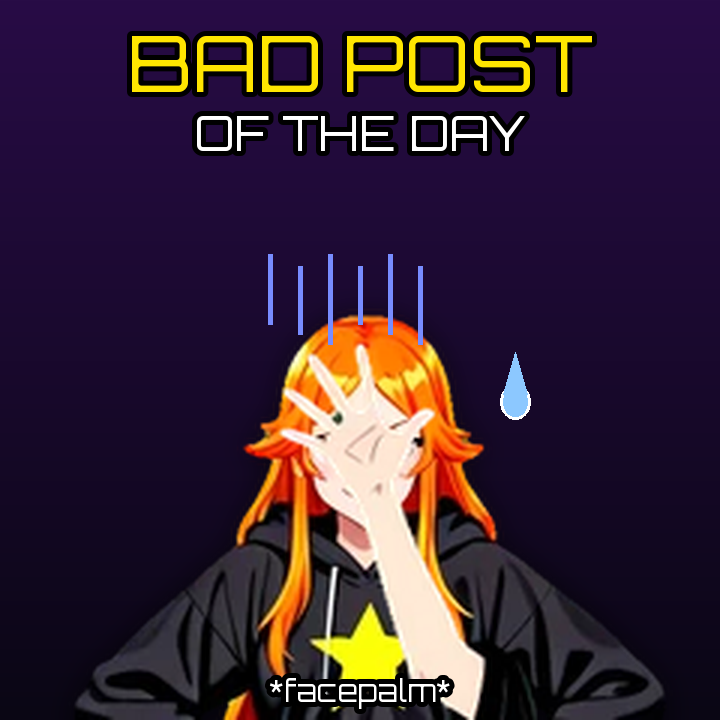
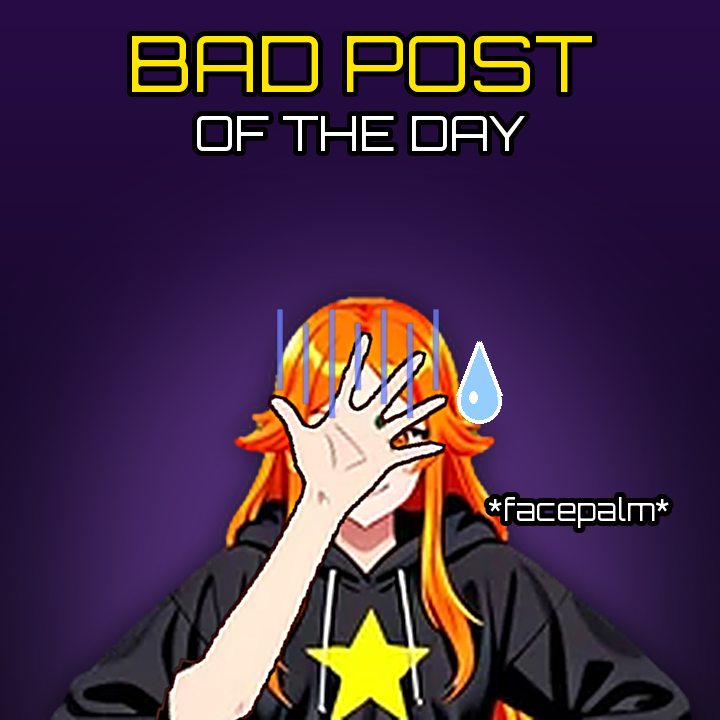
Bad Post of the Day: a facepalm with a whole arm, cut at full resolution
The old composite pasted a waving palm over her eyes with its forearm cut off mid-hoodie and a jagged
pale halo from a 3x magnified cut-out. Now the mirrored arm (back of her right hand) runs off the bottom
of the frame, the cut-out and ink outline are made at final scale, gloom lines and sweat drop sit on her
head, and the caption is off the star.

diff --git a/scripts/make_badpost_facepalm.py b/scripts/make_badpost_facepalm.py
@@ -11,7 +11,7 @@ Run once after changing the mascot art (needs Pillow with FreeType, i.e. the app
 """
 import os
 
-from PIL import Image, ImageDraw, ImageFilter, ImageFont
+from PIL import Image, ImageDraw, ImageFilter, ImageFont, ImageOps
 
 ROOT = os.path.dirname(os.path.dirname(os.path.abspath(__file__)))
 MASCOT = os.path.join(ROOT, "static", "mascot")
@@ -20,15 +20,55 @@ SIZE = 720
 YELLOW = (255, 230, 0, 255)          # the star on her hoodie
 
 
+BUST = (105, 52, 315, 207)            # dance-5: hair top to mid-hoodie (the hip hands are out of frame)
+SCALE = 720 * 0.95 / (BUST[2] - BUST[0])
+PALM_AT = (212, 117)                   # dance-5 coordinates: both eyes behind the hand
+ARM_TILT = -14                         # degrees; the elbow goes out to her right, off the bottom edge
+HAND = 1.08                            # the hand a little larger than the waving one, so it covers both eyes
+INK = (70, 32, 28, 255)                # the line-art brown of her outlines
+
+
+def _up(im: Image.Image, k: float) -> Image.Image:
+    return im.resize((round(im.width * k), round(im.height * k)), Image.LANCZOS)
+
+
+def _arm() -> Image.Image:
+    """dance-2's waving arm, cut out along the skin (no hair, no hoodie), MIRRORED -- a palm-out right
+    hand mirrored is the BACK of her right hand, which is what a facepalm shows the viewer."""
+    src = Image.open(os.path.join(MASCOT, "dance", "dance-2.webp")).convert("RGBA")
+    cut = Image.new("L", src.size, 0)
+    ImageDraw.Draw(cut).polygon([(86, 0), (150, 0), (150, 40), (140, 70), (146, 100), (150, 125),
+                                 (122, 128), (106, 104), (98, 62), (86, 40)], fill=255)
+    arm = Image.new("RGBA", src.size, (0, 0, 0, 0))
+    arm.paste(src, (0, 0), Image.composite(src.split()[3], cut, cut))
+    return ImageOps.mirror(arm.crop((80, 0, 165, 150)))
+
+
 def figure() -> Image.Image:
-    body = Image.open(os.path.join(MASCOT, "dance", "dance-5.webp")).convert("RGBA")
-    arm = Image.open(os.path.join(MASCOT, "dance", "dance-2.webp")).convert("RGBA").crop((80, 0, 165, 140))
-    big = Image.new("RGBA", (400, 400), (0, 0, 0, 0))
-    big.alpha_composite(arm, (200 - 35, 200 - 38))                 # palm centre at (35, 38) of the crop
-    big = big.rotate(6, resample=Image.BICUBIC, center=(200, 200))
-    body.alpha_composite(big, (209 - 200, 121 - 200))               # palm over her eyes
-    bust = body.crop((100, 50, 320, 212))
-    return bust.resize((bust.width * 3, bust.height * 3), Image.LANCZOS)
+    """Composed at the FINAL scale: the art is upscaled first and the arm's edge and outline are cut
+    afterwards, so they are smooth lines rather than a 3x-magnified pixel staircase (the old image's
+    pale, jagged halo). The forearm runs off the bottom of the frame, so there is no seam where an arm
+    stops in mid-air."""
+    body = _up(Image.open(os.path.join(MASCOT, "dance", "dance-5.webp")).convert("RGBA").crop(BUST), SCALE)
+    k = SCALE * HAND
+    arm = _up(_arm(), k)
+    alpha = arm.split()[3].filter(ImageFilter.GaussianBlur(1.2)).point(lambda v: 255 if v > 150 else 0)
+    alpha = alpha.filter(ImageFilter.MinFilter(3)).filter(ImageFilter.GaussianBlur(0.8))
+    ring = alpha.filter(ImageFilter.MaxFilter(7))
+    inked = Image.new("RGBA", arm.size, (0, 0, 0, 0))
+    inked.paste(Image.new("RGBA", arm.size, INK), (0, 0), ring)
+    arm.putalpha(alpha)
+    inked.alpha_composite(arm)
+    palm = ((84 - (112 - 80)) * k, 30 * k)          # palm centre of the mirrored crop, scaled
+    pad = max(inked.size) * 2
+    big = Image.new("RGBA", (pad, pad), (0, 0, 0, 0))
+    big.alpha_composite(inked, (round(pad / 2 - palm[0]), round(pad / 2 - palm[1])))
+    big = big.rotate(ARM_TILT, resample=Image.BICUBIC, center=(pad / 2, pad / 2))
+    at = ((PALM_AT[0] - BUST[0]) * SCALE, (PALM_AT[1] - BUST[1]) * SCALE)
+    out = body.copy()
+    out.alpha_composite(big.crop((round(pad / 2 - at[0]), round(pad / 2 - at[1]),
+                                  round(pad / 2 - at[0]) + out.width, round(pad / 2 - at[1]) + out.height)))
+    return out.filter(ImageFilter.UnsharpMask(radius=2, percent=90, threshold=2))
 
 
 def font(size: int):
@@ -44,6 +84,24 @@ def outlined(draw, xy, text, fnt, fill, anchor="mm"):
     draw.text(xy, text, font=fnt, fill=fill, anchor=anchor, stroke_width=5, stroke_fill=(0, 0, 0, 255))
 
 
+def _gloom(size, head, top):
+    """Anime gloom over her head: a cold shadow down from the crown and a fan of falling lines, drawn on
+    the head itself (they used to float a hand's width above it)."""
+    layer = Image.new("RGBA", size, (0, 0, 0, 0))
+    d = ImageDraw.Draw(layer)
+    for i, dx in enumerate((-78, -52, -26, 0, 26, 52, 78)):
+        y0 = top - 10 + (i % 2) * 14
+        d.line([(head + dx, y0), (head + dx, top + 70 + (i % 3) * 14)], fill=(110, 130, 255, 200), width=6)
+    return layer.filter(ImageFilter.GaussianBlur(0.6))
+
+
+def _sweat(d, x, y):
+    d.ellipse([x - 22, y - 10, x + 22, y + 34], fill=(150, 205, 255, 255), outline=(255, 255, 255, 255), width=4)
+    d.polygon([(x - 20, y + 4), (x, y - 48), (x + 20, y + 4)], fill=(150, 205, 255, 255))
+    d.line([(x - 21, y + 6), (x, y - 48), (x + 21, y + 6)], fill=(255, 255, 255, 255), width=4)
+    d.ellipse([x - 10, y + 2, x - 2, y + 14], fill=(255, 255, 255, 255))     # the glint
+
+
 def main() -> None:
     canvas = Image.new("RGBA", (SIZE, SIZE), (0, 0, 0, 255))
     grad = ImageDraw.Draw(canvas)
@@ -52,23 +110,26 @@ def main() -> None:
         grad.line([(0, y), (SIZE, y)], fill=(int(40 - 30 * t), int(12 - 6 * t), int(70 - 50 * t), 255))
     fig = figure()
     x, y = (SIZE - fig.width) // 2, SIZE - fig.height
+    head = x + round((209 - BUST[0]) * SCALE)                        # dance-5's face centre
+    crown = y + round((84 - BUST[1]) * SCALE)              # the top of her hair
+    # A soft spotlight behind her, so the dark hoodie does not sink into the dark background.
+    spot = Image.new("L", canvas.size, 0)
+    ImageDraw.Draw(spot).ellipse([head - 300, crown - 60, head + 300, SIZE + 260], fill=150)
+    spot = spot.filter(ImageFilter.GaussianBlur(70))
+    canvas.alpha_composite(Image.merge("RGBA", (Image.new("L", canvas.size, 120), Image.new("L", canvas.size, 70),
+                                                 Image.new("L", canvas.size, 170), spot)))
     glow = Image.new("RGBA", canvas.size, (0, 0, 0, 0))
     glow.alpha_composite(fig, (x, y))
     shadow = glow.split()[3].filter(ImageFilter.GaussianBlur(14))
     canvas.alpha_composite(Image.merge("RGBA", (shadow.point(lambda v: 0),) * 3 + (shadow.point(lambda v: v * 0.7),)))
     canvas.alpha_composite(fig, (x, y))
+    canvas.alpha_composite(_gloom(canvas.size, head, crown))
     d = ImageDraw.Draw(canvas)
-    # Anime gloom lines over her head: the universal "oh no" of the drawing style she is drawn in.
-    head_x, head_top = x + 330, y + 60
-    for i, dx in enumerate((-90, -60, -30, 0, 30, 60)):
-        d.line([(head_x + dx, head_top - 40 + (i % 2) * 12), (head_x + dx, head_top + 30 + (i % 3) * 10)],
-               fill=(120, 140, 255, 200), width=5)
-    # A sweat drop beside the hand.
-    d.ellipse([x + 470, y + 150, x + 500, y + 185], fill=(140, 200, 255, 235), outline=(255, 255, 255, 255), width=3)
-    d.polygon([(x + 473, y + 160), (x + 485, y + 118), (x + 497, y + 160)], fill=(140, 200, 255, 235))
+    _sweat(d, head + 122, crown + 70)
     outlined(d, (SIZE // 2, 62), "BAD POST", font(78), YELLOW)
     outlined(d, (SIZE // 2, 132), "OF THE DAY", font(48), (255, 255, 255, 255))
-    outlined(d, (SIZE // 2, SIZE - 30), "*facepalm*", font(30), (255, 255, 255, 255))
+    # The caption sits in the clear space beside her head -- it used to be printed across the star.
+    outlined(d, (head + 222, crown + 190), "*facepalm*", font(30), (255, 255, 255, 255))
     canvas.convert("RGB").save(OUT, optimize=True)
     print(f"wrote {OUT} ({os.path.getsize(OUT)} bytes)")
 

diff --git a/tests/test_badpost_facepalm_art.py b/tests/test_badpost_facepalm_art.py
@@ -1,0 +1,70 @@
+"""The Bad Post of the Day facepalm: one connected arm, and the shipped PNG is what the script builds.
+
+Asked for 2026-10-14: "improve the face palm graphic". The old picture pasted dance-2's waving palm over her
+eyes with its forearm CUT OFF halfway down the hoodie -- an arm that ends in mid-air -- with a pale, jagged
+halo from cutting the art out at its native size and then magnifying it 3x. The hand is now the mirrored
+arm (the back of her right hand), and its forearm runs off the bottom edge of the frame.
+
+Measured on the picture people actually see: the skin under her palm is followed, pixel to pixel, and must
+leave the frame at the bottom on her right side. The old image's arm stopped ~190 px above the edge.
+"""
+import importlib.util
+import os
+
+import numpy as np
+from PIL import Image
+from scipy import ndimage
+
+ROOT = os.path.dirname(os.path.dirname(os.path.abspath(__file__)))
+PNG = os.path.join(ROOT, "static", "mascot", "badpost-facepalm.png")
+
+
+def _script():
+    spec = importlib.util.spec_from_file_location("make_badpost_facepalm",
+                                                  os.path.join(ROOT, "scripts", "make_badpost_facepalm.py"))
+    mod = importlib.util.module_from_spec(spec)
+    spec.loader.exec_module(mod)
+    return mod
+
+
+def _palm_xy(mod):
+    fig_w = round((mod.BUST[2] - mod.BUST[0]) * mod.SCALE)
+    fig_h = round((mod.BUST[3] - mod.BUST[1]) * mod.SCALE)
+    x0, y0 = (mod.SIZE - fig_w) // 2, mod.SIZE - fig_h
+    return (round(x0 + (mod.PALM_AT[0] - mod.BUST[0]) * mod.SCALE),
+            round(y0 + (mod.PALM_AT[1] - mod.BUST[1]) * mod.SCALE))
+
+
+def test_the_hand_over_her_eyes_belongs_to_an_arm_that_leaves_the_frame():
+    mod = _script()
+    px = np.asarray(Image.open(PNG).convert("RGB")).astype(int)
+    r, g, b = px[..., 0], px[..., 1], px[..., 2]
+    skin = (r > 200) & (g > 165) & (b > 135) & (r - b > 22) & (r - b < 110)   # warm: not the white caption
+    labels, _ = ndimage.label(skin)
+    x, y = _palm_xy(mod)
+    # The palm centre itself may fall on a knuckle line; take the skin component nearest to it.
+    win = labels[y - 12:y + 13, x - 12:x + 13]
+    ids = [v for v in np.unique(win) if v]
+    assert ids, ("no skin under the palm -- the hand is not over her eyes", (x, y))
+    arm = max(ids, key=lambda v: int((labels == v).sum()))
+    comp = labels == arm
+    # Her right forearm leaves the frame on HER right (the viewer's left), well clear of her neck: the skin
+    # under the palm is otherwise joined to the bottom edge only down her neckline, which is what the old
+    # picture's cut-off arm amounted to.
+    bottom = np.where(comp[mod.SIZE - 20:].any(axis=0))[0]
+    assert len(bottom) and bottom.min() < x - 80, ("the hand over her eyes is not joined to an arm leaving the "
+                                                   "frame -- a forearm cut off in mid-air", bottom[:5].tolist())
+    rows = np.where(comp.any(axis=1))[0]
+    assert rows.min() < y, "the skin found is not the hand over her face"
+
+
+def test_the_shipped_png_is_what_the_script_builds(tmp_path, monkeypatch):
+    """The image is derived from the mascot art by the script; a hand-edited PNG would be lost on its next run."""
+    mod = _script()
+    out = tmp_path / "facepalm.png"
+    monkeypatch.setattr(mod, "OUT", str(out))
+    mod.main()
+    a = np.asarray(Image.open(out).convert("RGB")).astype(int)
+    b = np.asarray(Image.open(PNG).convert("RGB")).astype(int)
+    assert a.shape == b.shape
+    assert np.abs(a - b).max() <= 2, "static/mascot/badpost-facepalm.png was not rebuilt from the script"
